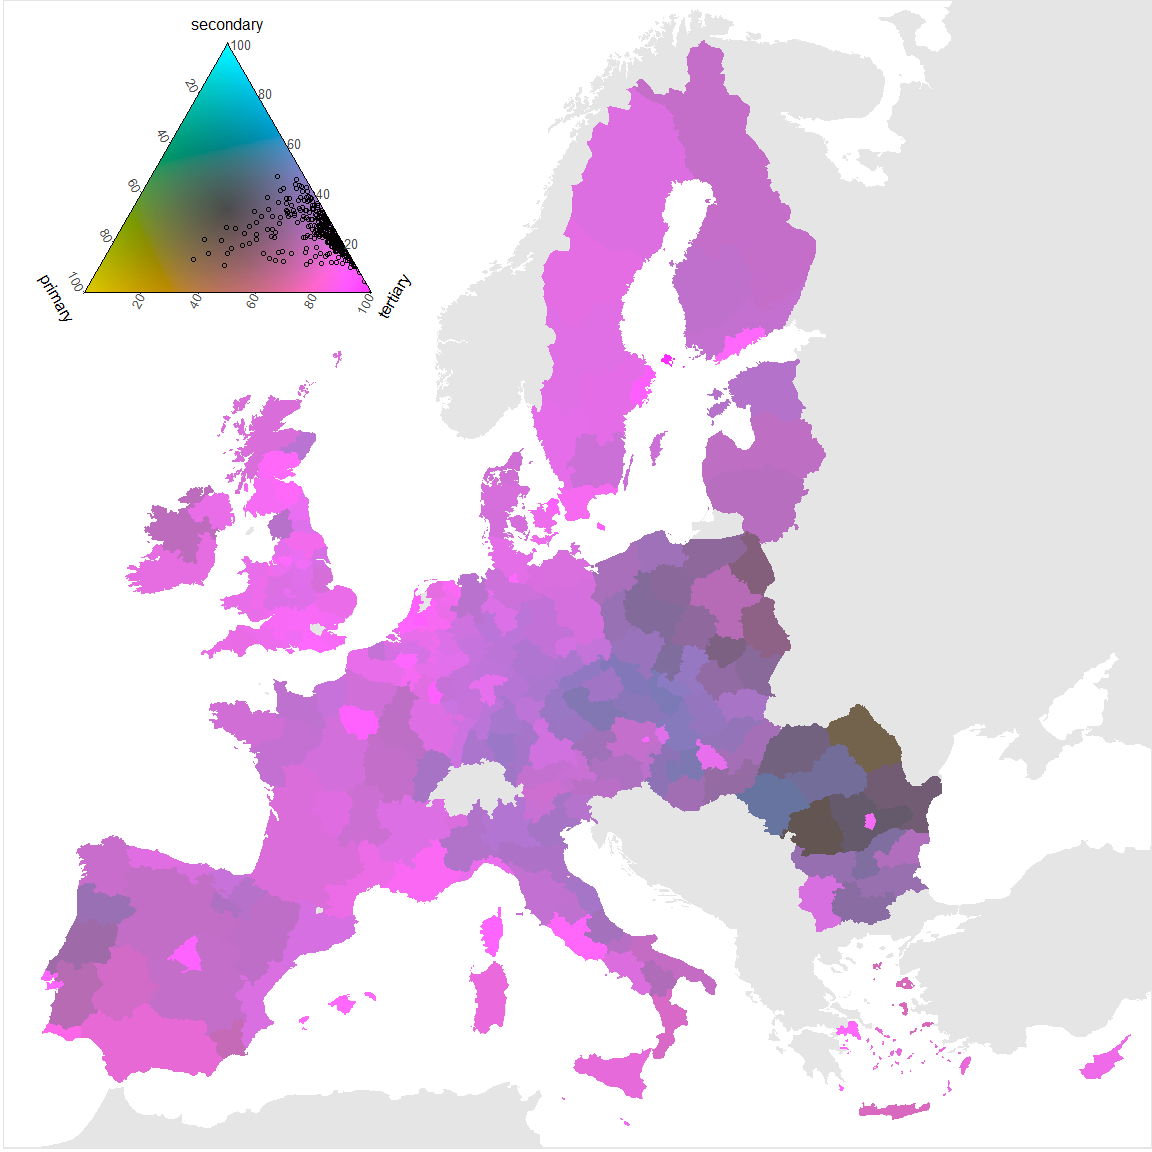
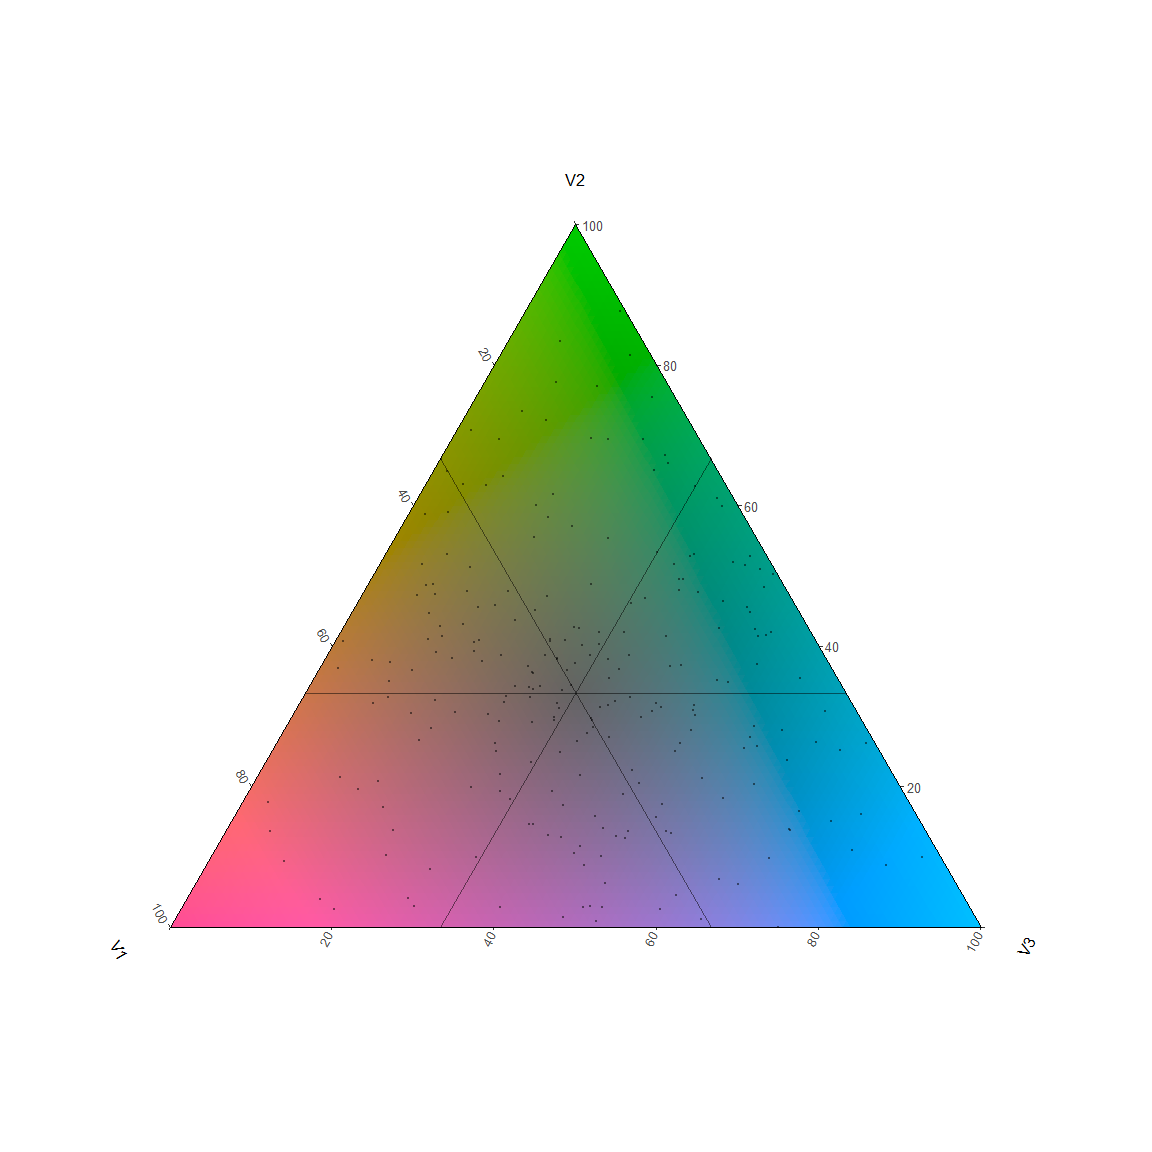
Update Readme

diff --git a/README.md b/README.md
@@ -1,7 +1,18 @@
-Tricolore. A Balanced Color Scale for Ternary Compositions
+Tricolore. A flexible color scale for ternary compositions
 ================
 Jonas Schöley
-2017-11-21
+Sat Jan 13 19:39:36 2018
+
+What is 'tricolore'?
+--------------------
+
+Tricolore is a flexible color scale for three-part (ternary) compositions allowing you to color code any ternary composition and draw a corresponding color key. Tricolore flexibly adapts to many different visualization challenges via
+
+-   discrete and continuous colors
+-   support for unbalanced compositional data or data with very narrow range via centering and scaling of the color scale
+-   hue, chroma and lightness options
+
+![](readme_files/teaser.png)
 
 Install
 -------
@@ -11,91 +22,125 @@ devtools::install_github('jschoeley/tricolore')
 library(tricolore); DemoTricolore()
 ```
 
+Getting Started
+---------------
+
+The `Tricolore()` function takes a data-frame of three-part compositions, color-codes them and returns a list with elements `hexsrgb` and `legend`. The first list element is a vector of rgb codes for the color-coded compositions, the latter element gives a plot of the color key.
+
+Here's a minimal example using simulated data.
+
 ``` r
-knitr::opts_chunk$set(warning=FALSE, message=FALSE, fig.width = 12, fig.height = 12)
+library(ggtern)
 library(tricolore)
-library(dplyr)
+
+# simulate 243 ternary compositions
+P <- as.data.frame(prop.table(matrix(runif(3^6), ncol = 3), 1))
+# color-code each composition and return a corresponding color key
+tric <- Tricolore(P, V1, V2, V3)
+# the color-coded compositions
+head(tric$hexsrgb)
 ```
 
-Plotting raw proportions
-------------------------
+    ## [1] "#2D8A6DFF" "#846E59FF" "#C4697EFF" "#B3715AFF" "#009E57FF" "#876E9AFF"
 
 ``` r
-eu_sectors
+tric$legend
 ```
 
-    ## # A tibble: 318 x 4
-    ##     nuts2     primary secondary  tertiary
-    ##    <fctr>       <dbl>     <dbl>     <dbl>
-    ##  1   AT11 0.044227886 0.2683658 0.6821589
-    ##  2   AT12 0.056190950 0.2437842 0.6999005
-    ##  3   AT13 0.005176357 0.1433731 0.8515710
-    ##  4   AT21 0.056603774 0.2649211 0.6707740
-    ##  5   AT22 0.060979730 0.2920608 0.6469595
-    ##  6   AT31 0.062290240 0.3311854 0.6063901
-    ##  7   AT32 0.041471331 0.2488280 0.7042914
-    ##  8   AT33 0.039491121 0.2610655 0.6994434
-    ##  9   AT34 0.022443890 0.3576060 0.5985037
-    ## 10   BE10 0.000000000 0.1287062 0.8708446
-    ## # ... with 308 more rows
+![](README_files/figure-markdown_github/unnamed-chunk-3-1.png)
+
+*A ternary color key with the color-coded compositional data visible as points.*
+
+You can familiarize yourself with the various options of `tricolore` by running `DemoTricolore()`.
+
+Case study: European labor force composition.
+---------------------------------------------
+
+We are interested in the regional distribution of labor force by sector in the European Union. The `eu_sectors` data contains the share of workers in the three sectors for the year 2016 by NUTS-2 region.
 
 ``` r
-# generate colors based on compositions and merge with map data
-tricol <- MixColor(eu_sectors, primary, secondary, tertiary, legend = TRUE)
-eu_sectors$srgb <- tricol$hexsrgb
-map_data <- left_join(eushp_nuts2, eu_sectors, by = c('id' = 'nuts2'))
-
-# plot ternary shaded choropleth map
-europe_map +
-  geom_polygon(aes(long, lat, group = group, fill = srgb),
-               data = map_data) +
-  scale_fill_identity() +
-  annotation_custom(ggplotGrob(tricol$legend),
-                    xmin = -7e5, xmax = 73e5,
-                    ymin = 42e5, ymax = 55e5)
+head(eu_sectors)
 ```
 
-![](readme_files/figure-markdown_github/unnamed-chunk-3-1.png)
+    ## # A tibble: 6 x 4
+    ##   nuts2 primary secondary tertiary
+    ##   <chr>   <dbl>     <dbl>    <dbl>
+    ## 1 AT11  0.0442      0.268    0.682
+    ## 2 AT12  0.0562      0.244    0.700
+    ## 3 AT13  0.00518     0.143    0.852
+    ## 4 AT21  0.0566      0.265    0.671
+    ## 5 AT22  0.0610      0.292    0.647
+    ## 6 AT31  0.0623      0.331    0.606
 
-Plotting centered proportions
------------------------------
+In order to prepare a map I've prepared a data frame with the outlines of the European NUTS-2 regions and neighboring countries, `eushp_nuts2`
 
 ``` r
-# generate colors based on compositions and merge with map data
-tricol <- MixColor(eu_sectors, primary, secondary, tertiary, center = TRUE, legend = TRUE)
-eu_sectors$srgb <- tricol$hexsrgb
-map_data <- left_join(eushp_nuts2, eu_sectors, by = c('id' = 'nuts2'))
-
-# plot ternary shaded choropleth map
-europe_map +
-  geom_polygon(aes(long, lat, group = group, fill = srgb),
-               data = map_data) +
-  scale_fill_identity() +
-  annotation_custom(ggplotGrob(tricol$legend),
-                    xmin = -7e5, xmax = 73e5,
-                    ymin = 42e5, ymax = 55e5)
+head(eushp_nuts2)
 ```
 
-![](readme_files/figure-markdown_github/unnamed-chunk-4-1.png)
+    ##      long     lat order  hole piece   id  group
+    ## 1 4846481 2803517     1 FALSE     1 AT11 AT11.1
+    ## 2 4847144 2796869     2 FALSE     1 AT11 AT11.1
+    ## 3 4847445 2793855     3 FALSE     1 AT11 AT11.1
+    ## 4 4848217 2793632     4 FALSE     1 AT11 AT11.1
+    ## 5 4849195 2793349     5 FALSE     1 AT11 AT11.1
+    ## 6 4849699 2793204     6 FALSE     1 AT11 AT11.1
 
-Plotting discretized, centered proportions
-------------------------------------------
+Using tricolore, I color-code each regions labor force composition and merge the resulting vector of hexsrgb color codes with the map data.
 
 ``` r
-# generate colors based on compositions and merge with map data
-tricol <- MixColor(eu_sectors, primary, secondary, tertiary, center = TRUE,
-                   k = 2, legend = TRUE)
+# generate colors based on compositions in `eu_sectors`, default options
+tricol <- Tricolore(eu_sectors, primary, secondary, tertiary)
+
+# merge vector of colors with with map data
 eu_sectors$srgb <- tricol$hexsrgb
 map_data <- dplyr::left_join(eushp_nuts2, eu_sectors, by = c('id' = 'nuts2'))
+```
 
-# plot ternary shaded choropleth map
+I use `ggplot2` to plot a map of Europe with each NUTS-2 region shaded according to its corresponding hexsrgb values (`scale_fill_identity()`). I merge the color-key returned by `tricolore` with the map using the `annotation_custom()` function.
+
+``` r
 europe_map +
   geom_polygon(aes(long, lat, group = group, fill = srgb),
                data = map_data) +
   scale_fill_identity() +
   annotation_custom(ggplotGrob(tricol$legend),
-                    xmin = -7e5, xmax = 73e5,
-                    ymin = 42e5, ymax = 55e5)
+                    xmin = -7e5, xmax = 73e5, ymin = 42e5, ymax = 55e5)
 ```
 
-![](readme_files/figure-markdown_github/unnamed-chunk-5-1.png)
+![](README_files/figure-markdown_github/unnamed-chunk-7-1.png)
+
+*Labor force composition in EU regions. Default color scale options. Data by eurostat.* Europe's labor force predominantly works in the tertiary sector, as seen by a map colored in various shades of blue. Reddish and greenish hues in eastern Europe indicate a higher share of primary and secondary labor force respectively.
+
+I'm not happy with the basic colors used to represent primary, secondary, and tertiary sectors. I think its much more natural to encode the primary (agricultural) sector in green, the secondary (industrial) sector in blue and the tertiary (services) sector in red. This is easily achieved by changing *hue* parameter of the color scale.
+
+``` r
+tricol <- Tricolore(eu_sectors, primary, secondary, tertiary, hue = 0.33)
+```
+
+*In the examples to follow I omit the whole mapping code. It is identical for all examples.*
+
+![](README_files/figure-markdown_github/unnamed-chunk-9-1.png)
+
+*Labor force composition in EU regions. Hue parameter set to 0.33. Data by eurostat.*
+
+Up until now I used continuous colors to show the regional labor force composition. A discrete color scale introduces sharp contours which sometimes pronounce interesting patterns in the data. The `k` parameter determines the number of colors for the color scale. A value of 3 gives a discrete scale of 3^2=9 colors. The discrete scale pronounces the east-west divide in labor force composition.
+
+``` r
+tricol <- Tricolore(eu_sectors, primary, secondary, tertiary, hue = 0.33, k = 3)
+```
+
+![](README_files/figure-markdown_github/unnamed-chunk-11-1.png)
+
+*Labor force composition in EU regions. Discrete scale with 9 colors. Data by eurostat.*
+
+A technique I've adopted from compositional data analysis is *ternary centering*. Centering shifts the center of the color scale (the greypoint) to the center of the data and thereby shows deviations from the average composition. It's the ternary equivalent to a divergent color-scale with the average value at the midpoint.
+
+Centering the color scale over the labor-force composition of the average European NUTS-2 region shows various patterns of deviations from the average. Metropolitan regions (Hamburg, Stockholm, Paris, Madrid) have a higher than average share of tertiary workers. Large parts of France are quite grey, indicating a labor-force composition close to the average, while Eastern Europe, the south of Spain and Italy have a higher than average share of workers active in the primary sector.
+
+``` r
+tricol <- Tricolore(eu_sectors, primary, secondary, tertiary,
+                    hue = 0.33, center = NA)
+```
+
+![](README_files/figure-markdown_github/unnamed-chunk-13-1.png)
